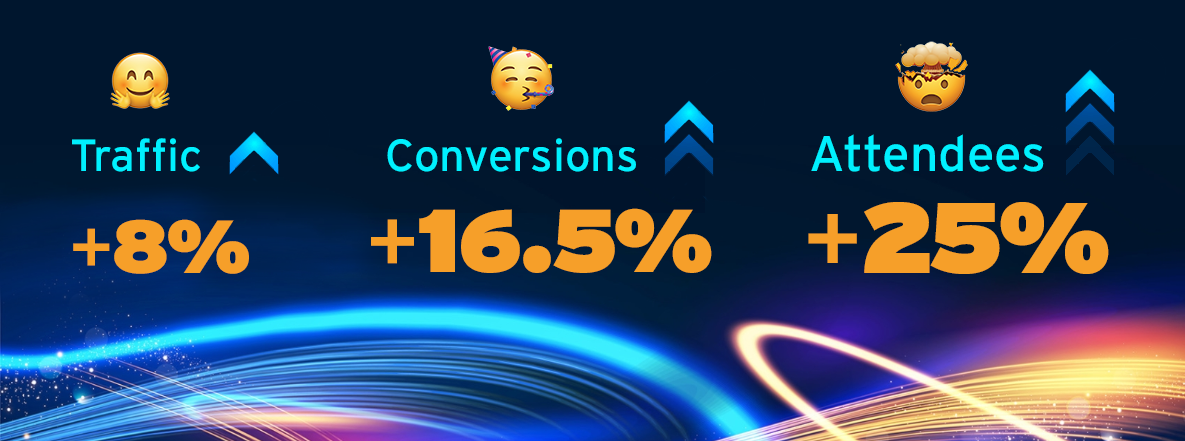
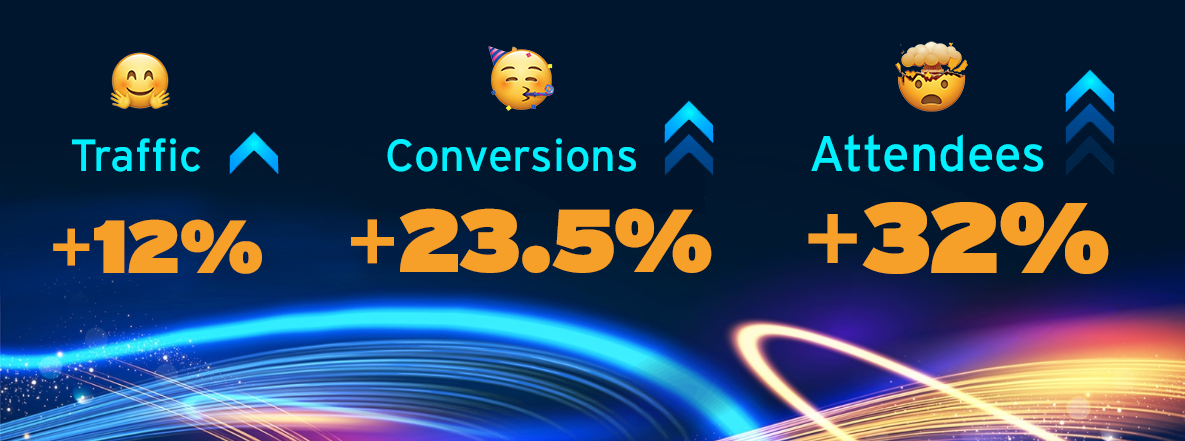
updated analytics

Changed region(s): [[0.281, 0.4717, 0.4996, 0.619], [0.0312, 0.5011, 0.2186, 0.619], [0.7181, 0.4422, 0.843, 0.619]]

diff --git a/src/components/Hero.jsx b/src/components/Hero.jsx
@@ -50,9 +50,9 @@ export function Hero() {
                 Light. Speed.
               </p>
               <p className="mt-3 text-2xl tracking-tight font-header text-slate-400">
-                See how WRI's new Jamstack website increased traffic 8%,
-                increased conversions 16.5% and increased conference attendance
-                by a whopping 25%. Let's go!
+                See how WRI's new Jamstack website increased traffic 12%,
+                increased conversions 23.5% and increased conference attendance
+                by a whopping 32%. Let's go!
               </p>
               <div className="flex gap-4 mt-8 md:justify-center lg:justify-start">
                 <Button

diff --git a/src/app/page.md b/src/app/page.md
@@ -26,7 +26,7 @@ Scroll for the summary. Here are a few Quick Links: {% .lead %}
 
 Thanks for checking out my website redesign case study! I'm very excited to present how our team achieved impressive results with this redesign for WRI and provide a framework for future event website redesigns. 
 
-We achieved our key goals for Wheel Rail Seminars' new Jamstack site and broke a few records in the process! Not only did we meet our broader goals, but we also significantly increased traffic by 8%, boosted conversions by an impressive 16.5%, and saw a remarkable 25% rise in overall attendees. This success was highlighted by record-breaking attendance at both the Rail Transit seminar and the Principles Course seminar. 
+We achieved our key goals for Wheel Rail Seminars' new Jamstack site and broke a few records in the process! Not only did we meet our broader goals, but we also significantly increased traffic by 8%, boosted conversions by an impressive 23.5%, and saw a remarkable 32% rise in overall attendees. This success was highlighted by record-breaking attendance at both the Rail Transit seminar and the Principles Course seminar. 
 
 Our strategic design, coupled with streamlined information organization and registration processes, ensured an exceptional user experience, proving that our innovative approach delivers outstanding results.
 
@@ -239,31 +239,33 @@ The WRI website project was a huge success. We met our key goals and objectives 
 
 - Rail Transit Seminar{% width="50%" %}
 - 161 {% width="25%" %}
-- 196 {% width="25%" %}
+- 206 {% width="25%" %}
 
 ---
 
 - Principles Course Seminar {% width="50%" %}
 - 198 {% width="25%" %}
-- 239 {% width="25%" %}
+- 256 {% width="25%" %}
 
 ---
 
 - Heavy Haul Seminar {% width="50%" %}
 - 163 {% width="25%" %}
-- 216 {% width="25%" %}
+- 229 {% width="25%" %}
 
 ---
 
 - TOTAL ATTENDANCE {% width="50%" %}
 - 522 {% width="25%" %}
-- 651 {% width="25%" %}
+- 691 {% width="25%" %}
 
 {% /table %}
 
 ### A Happy Client!
 
-Gordon, if I could get a few words from you, or I can pen a few ideas if you wish.
+> "The work Steve and the entire WRS team accomplished in designing and building the WRI 2024 website was instrumental in making this year's conference a success. We broke multiple attendance records, setting the stage for success as we split the conference into two WRI conferences starting in 2025. I am excited about the ongoing improvements of the website to continue to promote our events and grow the Wheel/Rail Interaction engineering community."
+> 
+> — Gordon Bachinsky, Founder and President, Wheel Rail Seminars
 
 ### Want more info?
 
